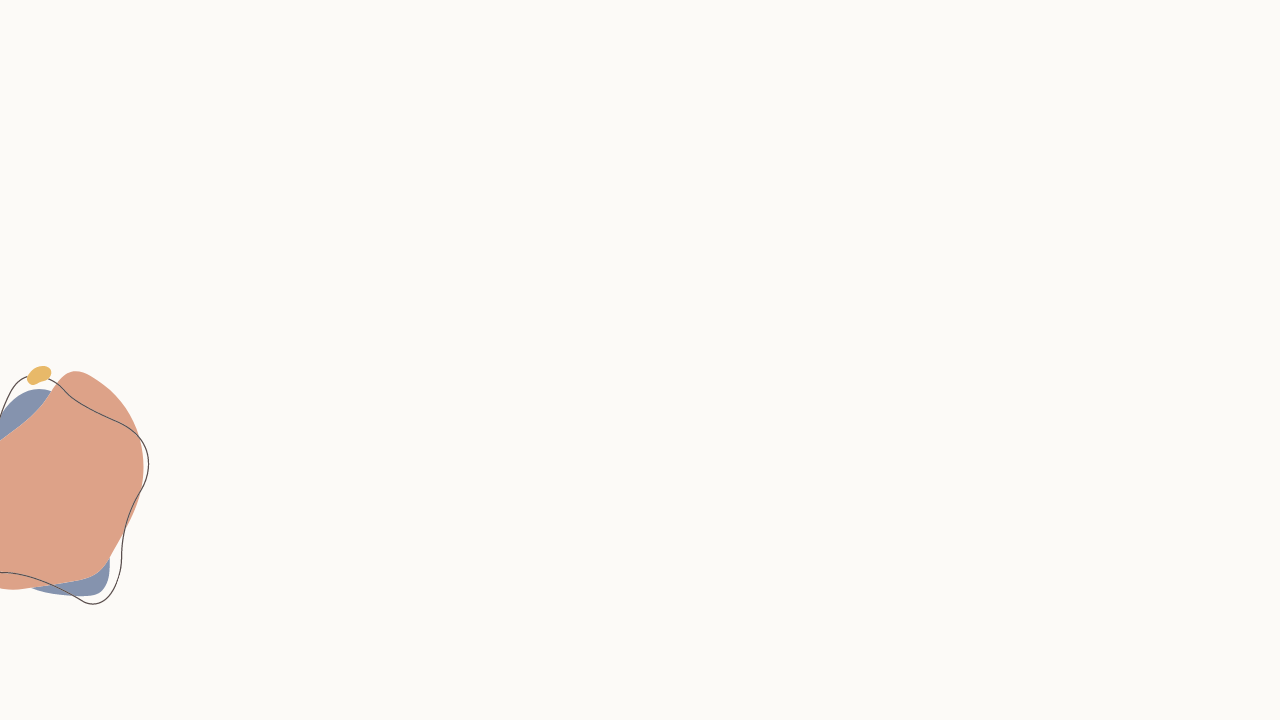
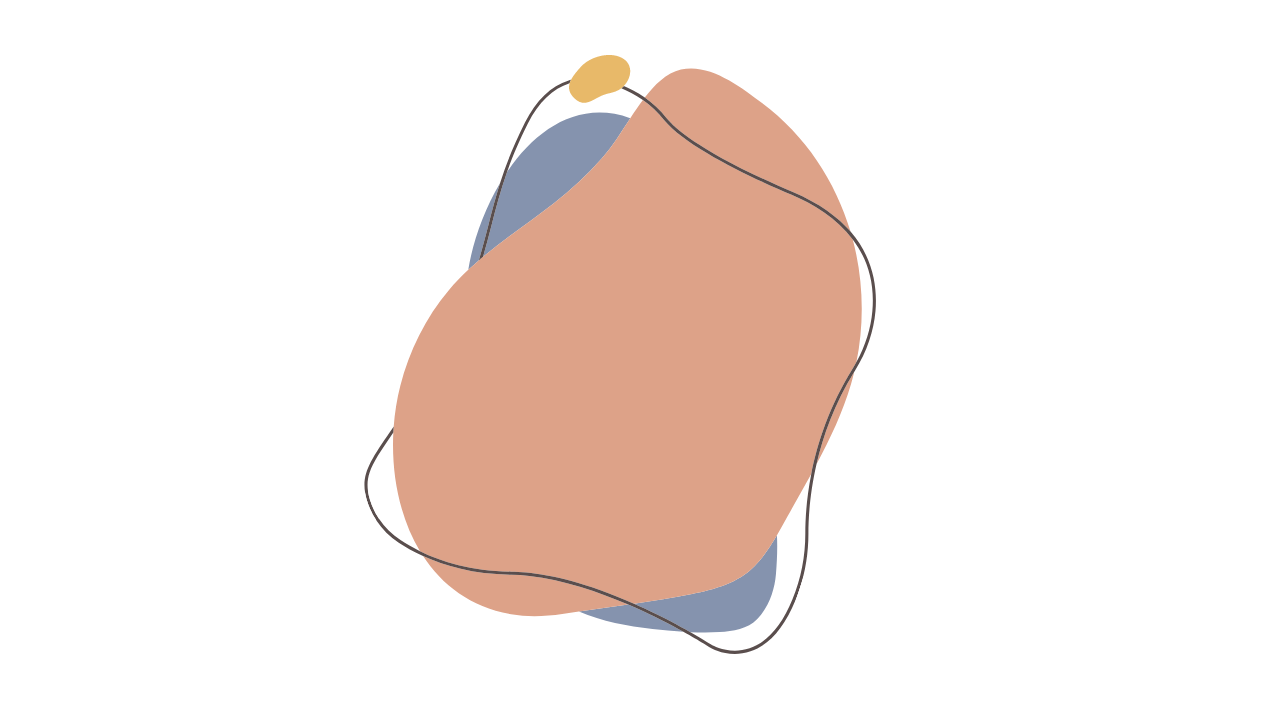
update bg

Changed region(s): [[0.2812, 0.0611, 0.6875, 0.9167], [0.0, 0.4889, 0.125, 0.8556]]

diff --git a/index.html b/index.html
@@ -44,6 +44,9 @@
     </header>
 
     <section class="aboutme">
+        <div class="bg-aboutme">
+            <img src="./img/bgaboutme.png" alt="background">
+        </div>
         <div class="title">
             <svg width="100%" height="100%">
            <text x="50%" y="60%"  text-anchor="middle"  >
@@ -97,6 +100,9 @@
     </section>
 
     <section class="education">
+        <div class="bg-education">
+            <img src="./img/bgedu.png" alt="background">
+        </div>
         <div class="title">
             <svg width="100%" height="100%">
            <text x="50%" y="60%"  text-anchor="middle">
@@ -238,9 +244,10 @@
     </section>
 
     <section class="experience">
-        <!-- <div class="bg-video">
+        <!--
+        <div class="bg-video">
             <video class="bg-video__content" autoplay muted loop>
-                <source src="./img/bg2.mp4" type="video/mp4">
+                <source src="./img/bg-video.mp4" type="video/mp4">
                 Your browser is not supported
             </video>
         </div>-->
@@ -297,7 +304,7 @@
 
         <div class="experience__project experience__project2">
             <div class="experience__project--demo">
-                <video controls preload="none" controls poster="../img/project2.jpg" width="100%" height="100%">
+                <video controls preload="none" controls poster="./img/project2.jpg" width="100%" height="100%">
                     <source src="./img/project2.mp4" alt="project2">
                 </video>
             </div>
@@ -342,7 +349,7 @@
 
         <div class="experience__project experience__project3">
             <div class="experience__project--demo">
-                <video controls preload="none" controls poster="../img/project3.jpg" width="100%" height="100%">
+                <video controls preload="none" controls poster="./img/project3.jpg" width="100%" height="100%">
                     <source src="./img/project3.mp4" alt="project3">
                 </video>
             </div>
@@ -387,7 +394,7 @@
 
         <div class="experience__project experience__project4">
             <div class="experience__project--demo">
-                <video controls preload="none" controls poster="../img/project4.jpg" width="100%" height="100%">
+                <video controls preload="none" controls poster="./img/project4.jpg" width="100%" height="100%">
                     <source src="./img/project4.mp4" alt="project4">
                 </video>
             </div>

diff --git a/css/style.css b/css/style.css
@@ -410,7 +410,6 @@ h4 {
 .aboutme {
   height: 112vh;
   background-color: #fcfaf7;
-  background-image: url("../img/bgaboutme.png");
   background-position: center;
   background-size: cover; }
   @media (min-width: 1920px) {
@@ -428,6 +427,12 @@ h4 {
   @media (max-width: 320px) {
     .aboutme {
       height: 140vh; } }
+
+.bg-aboutme img {
+  position: absolute;
+  width: 40%;
+  margin-top: 30rem;
+  margin-left: -22rem; }
 
 .interests {
   margin: 0 auto;
@@ -547,10 +552,14 @@ h4 {
 
 .education {
   height: 100vh;
-  background-color: #fcfaf7;
-  background-image: url("../img/bg2.png");
+  background-color: #FCFAF7;
   background-size: cover;
   background-position: center; }
+  .education .bg-education img {
+    position: absolute;
+    width: 60%;
+    margin-top: 1rem;
+    margin-left: 95rem; }
   @media (min-width: 1920px) {
     .education {
       height: 70vh; } }

diff --git a/sass/Component/_aboutme.scss b/sass/Component/_aboutme.scss
@@ -1,7 +1,6 @@
 .aboutme {
     height: 112vh;
     background-color: #fcfaf7;
-    background-image: url("../img/bgaboutme.png");
     background-position: center;
     background-size: cover;
     @include respond(desktop1) {
@@ -19,6 +18,13 @@
     @include respond(phone2) {
         height: 140vh;
     }
+}
+
+.bg-aboutme img {
+    position: absolute;
+    width: 40%;
+    margin-top: 30rem;
+    margin-left: -22rem;
 }
 
 .interests {

diff --git a/sass/Component/_education.scss b/sass/Component/_education.scss
@@ -1,9 +1,14 @@
 .education {
     height: 100vh;
-    background-color: #fcfaf7;
-    background-image: url("../img/bg2.png");
+    background-color: $bg-color;
     background-size: cover;
     background-position: center;
+    .bg-education img {
+        position: absolute;
+        width: 60%;
+        margin-top: 1rem;
+        margin-left: 95rem;
+    }
     @include respond(desktop1) {
         height: 70vh;
     }
